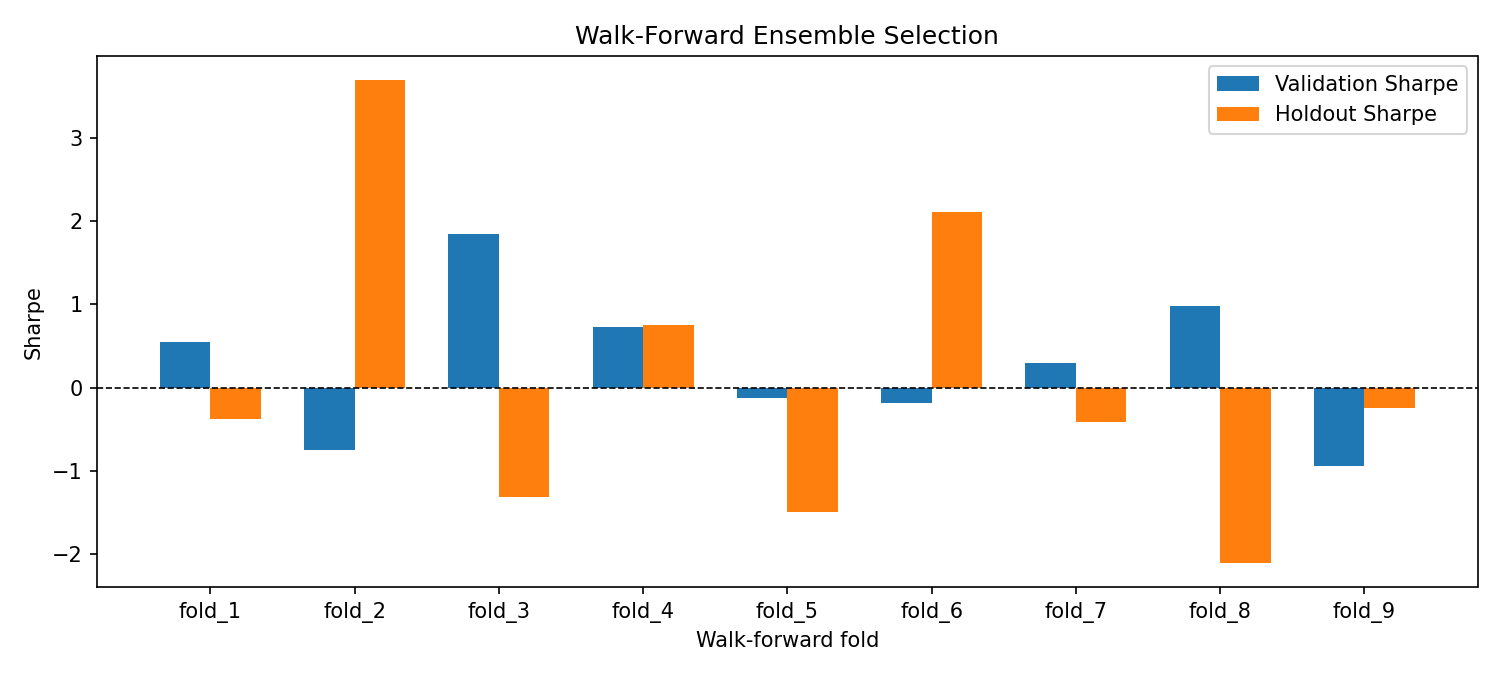
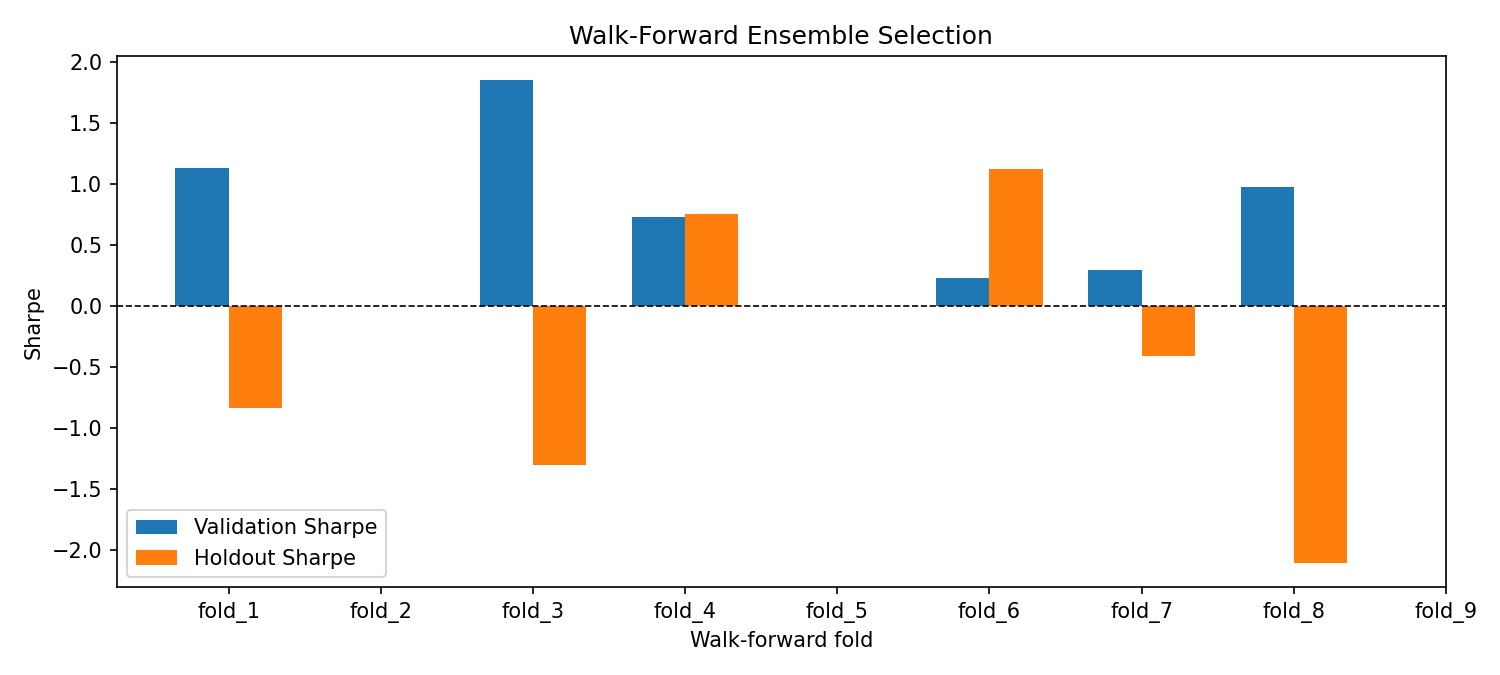
tighten selection

diff --git a/src/build_reports.py b/src/build_reports.py
@@ -15,6 +15,7 @@ from .attribution import (
 )
 from .config import BacktestConfig, infer_backtest_config
 from .data_loader import add_returns, load_price_data
+from .inference import bootstrap_metric_summary
 from .metrics import summarize_by_split
 from .plots import (
     plot_component_contribution_curves,
@@ -185,44 +186,15 @@ def select_validation_signals(
                 "max_abs_validation_corr_to_selected": max_corr,
                 "min_mean_abs_exposure_diff_to_selected": min_abs_diff,
                 "duplicate_validation_profile": duplicate_profile,
+                "positive_validation": positive_validation,
             }
         )
 
     selection = family_best.merge(pd.DataFrame(selection_rows), on=["signal", "family"], how="left")
 
-    if len(selected) < 3:
-        remaining = [
-            signal
-            for signal in candidates.sort_values(
-                [
-                    "validation_selection_score",
-                    "validation_sharpe",
-                    "validation_max_drawdown",
-                    "validation_avg_turnover",
-                ],
-                ascending=[False, False, False, True],
-            )["signal"]
-            if signal not in selected
-        ]
-        for signal in remaining:
-            min_abs_diff = min(
-                (
-                    (validation_slice[signal] - validation_slice[chosen]).abs().mean()
-                    for chosen in selected
-                ),
-                default=1.0,
-            )
-            if pd.notna(min_abs_diff) and min_abs_diff < 0.05:
-                continue
-            selected.append(signal)
-            if len(selected) == 3:
-                break
-        selection["selected_for_final_ensemble"] = selection["signal"].isin(selected)
-        selection.loc[selection["selected_for_final_ensemble"], "selection_order"] = [
-            selected.index(signal) + 1 for signal in selection.loc[selection["selected_for_final_ensemble"], "signal"]
-        ]
-
     selection["display_name"] = selection["signal"].map(DISPLAY_NAMES)
+    selection["selection_policy"] = "keep only positive-validation, non-duplicate, low-correlation representatives"
+    selection["flat_ensemble_if_empty"] = len(selected) == 0
     return selected, selection.sort_values(
         ["selected_for_final_ensemble", "validation_selection_score", "validation_sharpe"],
         ascending=[False, False, False],
@@ -281,11 +253,14 @@ def main() -> None:
 
     buy_and_hold = pd.Series(1.0, index=df.index, name="buy_and_hold")
     equal_weight = clip_exposure(signals.mean(axis=1), min_exposure=config.min_exposure, max_exposure=config.max_exposure).rename("equal_weight_ensemble")
-    final_ensemble = clip_exposure(
-        signals[selected_signals].mean(axis=1),
-        min_exposure=config.min_exposure,
-        max_exposure=config.max_exposure,
-    ).rename("final_research_ensemble")
+    if selected_signals:
+        final_ensemble = clip_exposure(
+            signals[selected_signals].mean(axis=1),
+            min_exposure=config.min_exposure,
+            max_exposure=config.max_exposure,
+        ).rename("final_research_ensemble")
+    else:
+        final_ensemble = pd.Series(0.0, index=df.index, name="final_research_ensemble")
 
     exposures = pd.concat([buy_and_hold, signals, equal_weight, final_ensemble], axis=1)
     backtests = backtest_many(df["qqq_return"], exposures, config=config, shift_exposure=True)
@@ -364,8 +339,21 @@ def main() -> None:
                 pct=0.10,
             ).assign(family=SIGNAL_FAMILY_MAP[signal], display_name=DISPLAY_NAMES.get(signal, signal))
         )
-    sensitivity_df = pd.concat(sensitivity_frames, ignore_index=True)
+    sensitivity_df = pd.concat(sensitivity_frames, ignore_index=True) if sensitivity_frames else pd.DataFrame()
     sensitivity_df.to_csv(results_dir / "parameter_sensitivity.csv", index=False)
+
+    bootstrap_rows = []
+    for strategy in ["buy_and_hold", *selected_signals, "final_research_ensemble"]:
+        bt = backtests[strategy].loc[config.holdout_start : config.holdout_end]
+        stats = bootstrap_metric_summary(bt["net_return"], config=config, block_size=20, n_boot=400, seed=7)
+        if stats.empty:
+            continue
+        stats["strategy"] = strategy
+        stats["display_name"] = DISPLAY_NAMES.get(strategy, strategy)
+        stats["split"] = "holdout"
+        bootstrap_rows.append(stats)
+    bootstrap_df = pd.concat(bootstrap_rows, ignore_index=True) if bootstrap_rows else pd.DataFrame()
+    bootstrap_df.to_csv(results_dir / "holdout_bootstrap_summary.csv", index=False)
 
     regime_rows = []
     regime_sets = structural_and_event_regimes(df)
@@ -440,16 +428,18 @@ def main() -> None:
         str(figures_dir / "rolling_sharpe.png"),
         trading_days=config.trading_days,
     )
-    plot_correlation_heatmap(
-        signals[selected_signals].corr(),
-        str(figures_dir / "signal_correlation_heatmap.png"),
-        title="Selected Signal Correlation",
-    )
+    if selected_signals:
+        plot_correlation_heatmap(
+            signals[selected_signals].corr(),
+            str(figures_dir / "signal_correlation_heatmap.png"),
+            title="Selected Signal Correlation",
+        )
     plot_cost_sensitivity(cost_df, str(figures_dir / "cost_sensitivity.png"))
-    plot_parameter_sensitivity_heatmap(
-        sensitivity_df,
-        str(figures_dir / "parameter_sensitivity_heatmap.png"),
-    )
+    if not sensitivity_df.empty:
+        plot_parameter_sensitivity_heatmap(
+            sensitivity_df,
+            str(figures_dir / "parameter_sensitivity_heatmap.png"),
+        )
     plot_regime_breakdown(
         regime_df,
         str(figures_dir / "regime_breakdown.png"),

diff --git a/src/inference.py b/src/inference.py
@@ -1,0 +1,78 @@
+from __future__ import annotations
+
+import numpy as np
+import pandas as pd
+
+from .config import BacktestConfig
+from .metrics import annualized_return, max_drawdown, sharpe_ratio
+
+
+def moving_block_bootstrap(
+    returns: pd.Series,
+    block_size: int = 20,
+    n_boot: int = 400,
+    seed: int = 7,
+) -> pd.DataFrame:
+    series = returns.dropna()
+    if series.empty:
+        return pd.DataFrame(columns=["sample"])
+
+    values = series.to_numpy()
+    n = len(values)
+    rng = np.random.default_rng(seed)
+    draws = np.empty((n_boot, n))
+    for i in range(n_boot):
+        pieces = []
+        while sum(len(piece) for piece in pieces) < n:
+            start = int(rng.integers(0, max(n - block_size + 1, 1)))
+            stop = min(start + block_size, n)
+            pieces.append(values[start:stop])
+        draws[i] = np.concatenate(pieces)[:n]
+    return pd.DataFrame(draws)
+
+
+def bootstrap_metric_summary(
+    returns: pd.Series,
+    config: BacktestConfig,
+    block_size: int = 20,
+    n_boot: int = 400,
+    seed: int = 7,
+) -> pd.DataFrame:
+    boot = moving_block_bootstrap(returns, block_size=block_size, n_boot=n_boot, seed=seed)
+    if boot.empty:
+        return pd.DataFrame()
+
+    sharpe_samples = boot.apply(lambda row: sharpe_ratio(pd.Series(row), config.trading_days), axis=1)
+    ann_return_samples = boot.apply(lambda row: annualized_return(pd.Series(row), config.trading_days), axis=1)
+    drawdown_samples = boot.apply(lambda row: max_drawdown(pd.Series(row)), axis=1)
+
+    point = pd.Series(
+        {
+            "sharpe": sharpe_ratio(returns, config.trading_days),
+            "ann_return": annualized_return(returns, config.trading_days),
+            "max_drawdown": max_drawdown(returns),
+        }
+    )
+    samples = {
+        "sharpe": sharpe_samples,
+        "ann_return": ann_return_samples,
+        "max_drawdown": drawdown_samples,
+    }
+    rows = []
+    for metric, sample in samples.items():
+        sample = sample.dropna()
+        rows.append(
+            {
+                "metric": metric,
+                "point_estimate": point[metric],
+                "bootstrap_median": sample.median(),
+                "bootstrap_p10": sample.quantile(0.10),
+                "bootstrap_p25": sample.quantile(0.25),
+                "bootstrap_p75": sample.quantile(0.75),
+                "bootstrap_p90": sample.quantile(0.90),
+                "probability_positive": (sample > 0).mean() if metric != "max_drawdown" else (sample > -0.10).mean(),
+                "n_boot": len(sample),
+                "block_size": block_size,
+            }
+        )
+    return pd.DataFrame(rows)

diff --git a/src/walkforward.py b/src/walkforward.py
@@ -100,19 +100,9 @@ def _select_signals_for_fold(signals: pd.DataFrame, signal_summary: pd.DataFrame
                 "validation_score": row["score"],
                 "validation_sharpe": row["validation_sharpe"],
                 "max_abs_validation_corr_to_selected": max_corr,
+                "selection_reason": "kept" if keep else "rejected",
             }
         )
-
-    if len(selected) < 3:
-        remaining = [
-            signal
-            for signal in candidates.sort_values(["score", "validation_sharpe"], ascending=[False, False])["signal"]
-            if signal not in selected
-        ]
-        for signal in remaining:
-            selected.append(signal)
-            if len(selected) == 3:
-                break
 
     return selected, pd.DataFrame(rows)
 
@@ -141,11 +131,14 @@ def evaluate_walkforward_selection(
         fold_config = _fold_config(config, window)
         fold_summary = summarize_by_split(signal_backtests, config=fold_config, return_col="net_return")
         selected, selection_df = _select_signals_for_fold(signals, fold_summary, fold_config)
-        final_exposure = clip_exposure(
-            signals[selected].mean(axis=1),
-            min_exposure=config.min_exposure,
-            max_exposure=config.max_exposure,
-        )
+        if selected:
+            final_exposure = clip_exposure(
+                signals[selected].mean(axis=1),
+                min_exposure=config.min_exposure,
+                max_exposure=config.max_exposure,
+            )
+        else:
+            final_exposure = pd.Series(0.0, index=signals.index, name="flat_if_no_signal")
         final_bt = compute_strategy_returns(returns, final_exposure, config=fold_config, shift_exposure=True)
         validation_metrics = summarize_backtest(final_bt.loc[fold_config.valid_start : fold_config.valid_end], fold_config)
         holdout_metrics = summarize_backtest(final_bt.loc[fold_config.holdout_start : fold_config.holdout_end], fold_config)
@@ -154,6 +147,7 @@ def evaluate_walkforward_selection(
                 **window,
                 "selected_signals": ", ".join(selected),
                 "n_selected": len(selected),
+                "flat_if_empty": len(selected) == 0,
                 "validation_sharpe": validation_metrics["sharpe"],
                 "holdout_sharpe": holdout_metrics["sharpe"],
                 "holdout_ann_return": holdout_metrics["ann_return"],

diff --git a/tests/test_research_extensions.py b/tests/test_research_extensions.py
@@ -4,6 +4,7 @@ from src.attribution import component_contribution_timeseries, exposure_state_su
 from src.backtest import backtest_many
 from src.config import infer_backtest_config
 from src.data_loader import add_returns, load_price_data
+from src.inference import bootstrap_metric_summary
 from src.signals import build_signal_matrix
 from src.walkforward import build_walkforward_windows, evaluate_walkforward_selection
 
@@ -59,3 +60,11 @@ def test_component_attribution_sums_to_selected_signal_frame():
 
     assert {"signal", "split", "sharpe"}.issubset(summary.columns)
     assert {"series", "short_share", "long_share"}.issubset(states.columns)
+
+
+def test_bootstrap_metric_summary_runs():
+    df = add_returns(load_price_data(str(SAMPLE_DATA)))
+    config = infer_backtest_config(df.index)
+    stats = bootstrap_metric_summary(df.loc[config.holdout_start : config.holdout_end, "qqq_return"], config=config, n_boot=40)
+    assert not stats.empty
+    assert {"metric", "point_estimate", "bootstrap_p10", "probability_positive"}.issubset(stats.columns)

diff --git a/README.md b/README.md
@@ -41,8 +41,9 @@ The workflow is:
 5. Charge transaction costs when exposure changes.
 6. Select the final ensemble using validation only, then report holdout
    results.
-7. Re-run the selection idea across multiple expanding walk-forward folds and
-   break the final ensemble into component-level return contributions.
+7. Re-run the selection idea across multiple expanding walk-forward folds,
+   leave the portfolio flat when no signal survives the validation filters,
+   and break the final ensemble into component-level return contributions.
 
 That one-day shift is important. It keeps the backtest from using same-day
 information twice.
@@ -108,6 +109,11 @@ The ranking details are in:
 - [results/signal_family_results.csv](results/signal_family_results.csv)
 - [reports/research_decisions.md](reports/research_decisions.md)
 
+I also kept the repeated walk-forward selection strict. If a fold has no signal
+with positive validation performance after the correlation and duplication
+filters, the walk-forward portfolio stays flat instead of forcing extra sleeves
+into the basket.
+
 ## Results
 
 Here are the main 5 bps one-way cost results from the included dataset:
@@ -125,12 +131,19 @@ ensemble helps drawdown relative to buy-and-hold, but it does not produce a
 positive holdout Sharpe. I left that in the repo because I would rather show
 the actual outcome than smooth it over.
 
+I also added a moving-block bootstrap summary for the holdout period. That file
+does not rescue the result; it makes the uncertainty explicit. The selected
+ensemble has only about a 30% bootstrap probability of positive holdout Sharpe
+on the included dataset, which is exactly the sort of check I would want to see
+if I were reviewing someone else's timing project.
+
 Useful result files:
 
 - [results/final_performance_summary.csv](results/final_performance_summary.csv)
 - [results/cost_sensitivity.csv](results/cost_sensitivity.csv)
 - [results/parameter_sensitivity.csv](results/parameter_sensitivity.csv)
 - [results/regime_summary.csv](results/regime_summary.csv)
+- [results/holdout_bootstrap_summary.csv](results/holdout_bootstrap_summary.csv)
 - [results/walkforward_performance.csv](results/walkforward_performance.csv)
 - [results/component_attribution_summary.csv](results/component_attribution_summary.csv)
 - [figures/final_equity_curve.png](figures/final_equity_curve.png)

diff --git a/results/README.md b/results/README.md
@@ -14,6 +14,8 @@ Main files:
 - `parameter_sensitivity.csv`: +/- 10% parameter perturbations for the selected
   sleeves
 - `regime_summary.csv`: structural and event-window regime breakdowns
+- `holdout_bootstrap_summary.csv`: moving-block bootstrap ranges for holdout
+  Sharpe, annual return, and drawdown
 - `component_attribution_summary.csv`: split-by-split contribution summary for
   the selected ensemble members
 - `ensemble_component_contributions.csv`: daily net contribution series for the
@@ -22,6 +24,10 @@ Main files:
 - `walkforward_performance.csv`: repeated expanding-window selection results
 - `walkforward_selection.csv`: which signals were chosen in each walk-forward
   fold
+
+The walk-forward files keep the selection strict. If no signal survives the
+validation filters in a fold, the walk-forward portfolio stays flat rather than
+filling the basket with convenience picks.
 - `public_data_split.csv`: exact train / validation / holdout dates used for
   the included dataset
 